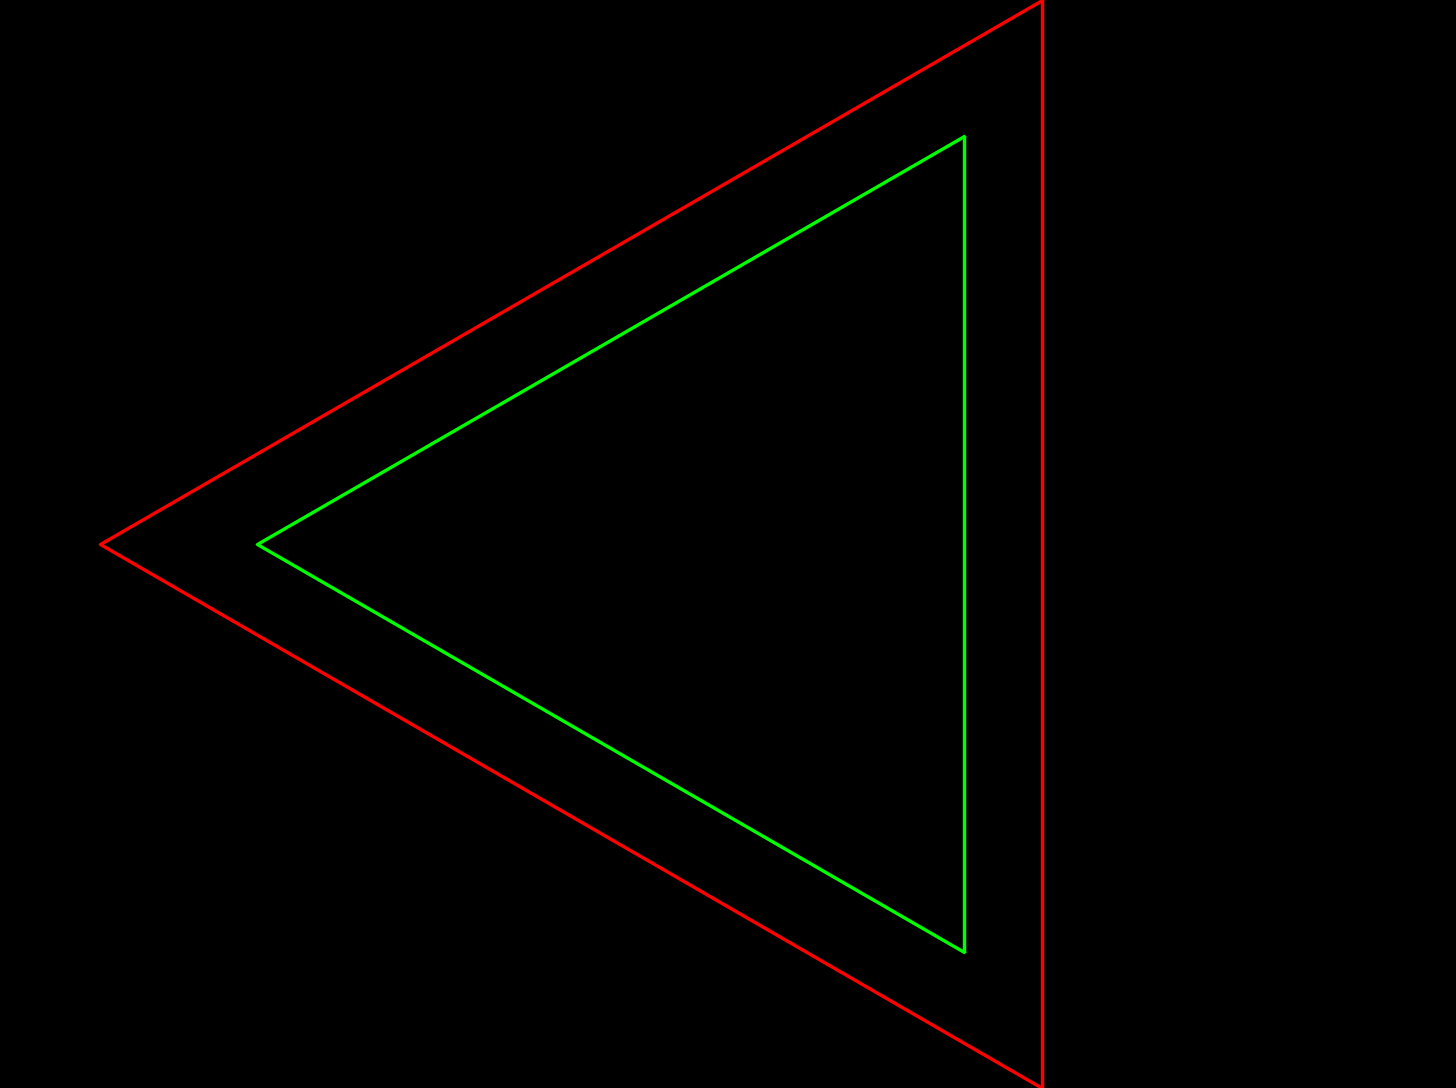
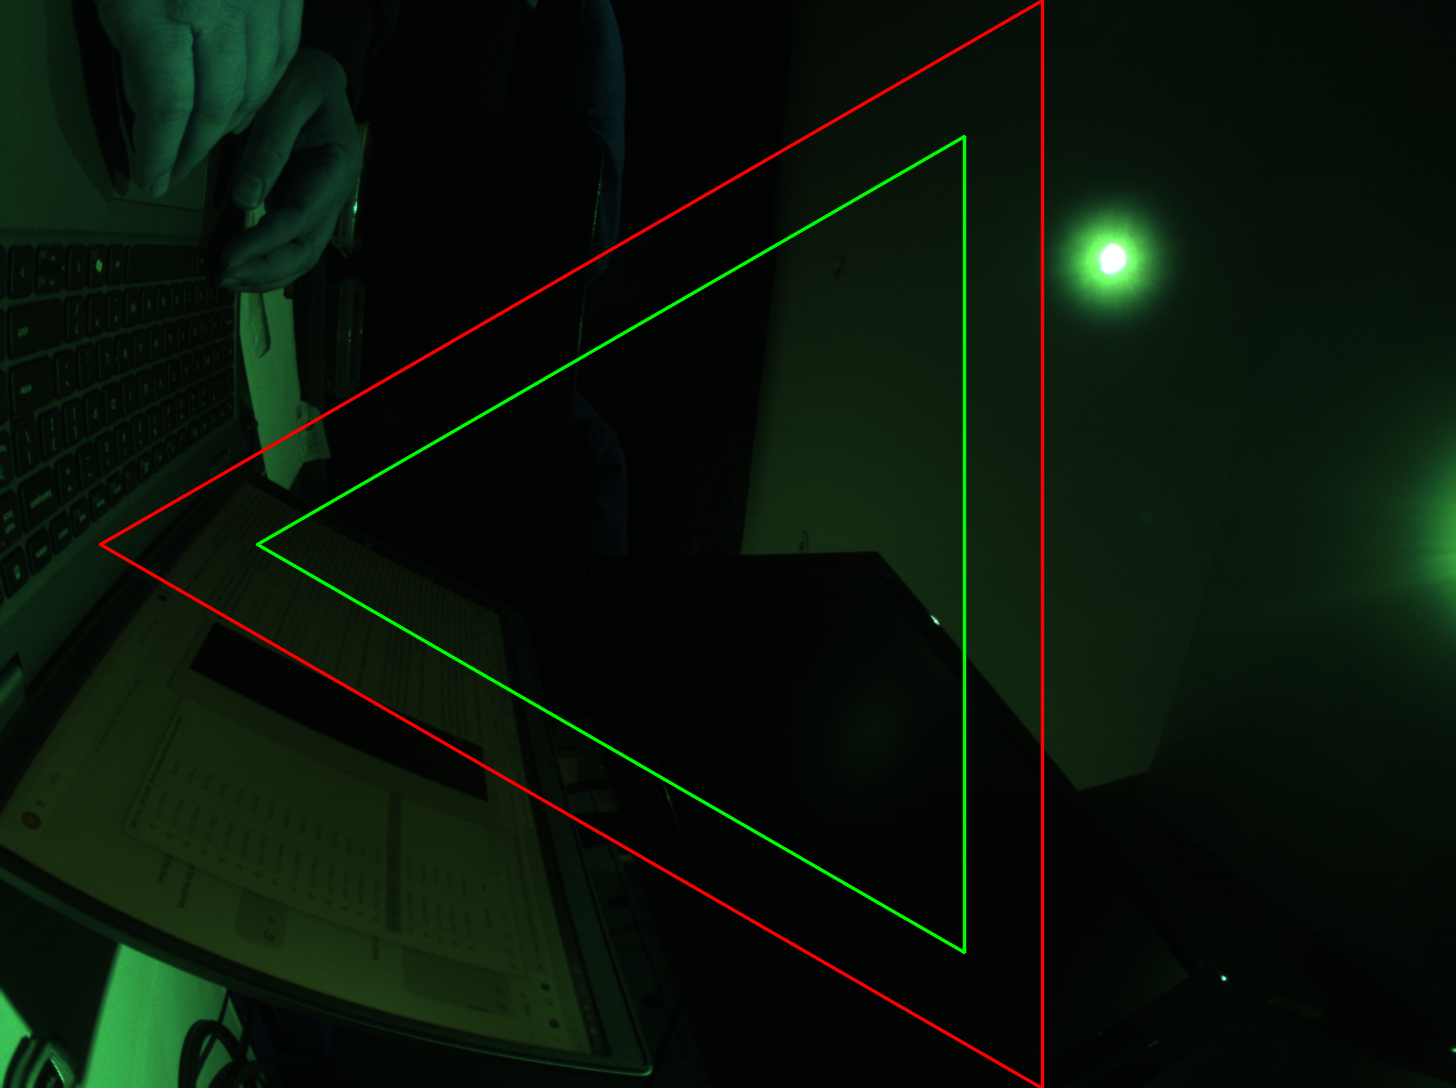
Mapping 4 cameras

diff --git a/software/src/common/topology/shapefunction/include/DASPi-icosahedronspace.h b/software/src/common/topology/shapefunction/include/DASPi-icosahedronspace.h
@@ -110,8 +110,8 @@ struct IcosahedronTables {
     static inline constexpr std::array<MaskOrientationData, facetsN_>
     maskOrientations_{{
         MaskOrientationData{maskRadius, cos0Pi, sin0Pi},//face0
-        MaskOrientationData{maskRadius, +cos0Pi, +sin0Pi},//face1
-        MaskOrientationData{maskRadius, 0.5, -std::numbers::sqrt3/2.0},//face2
+        MaskOrientationData{maskRadius, cos0Pi,sin0Pi},//face1
+        MaskOrientationData{maskRadius, +cos1Pi, -sin1Pi},//face2
         MaskOrientationData{maskRadius, cos0Pi, sin0Pi},//face3
         MaskOrientationData{maskRadius, cos0Pi, sin0Pi},//face4
 
@@ -119,7 +119,7 @@ struct IcosahedronTables {
         MaskOrientationData{maskRadius, cos1Pi, sin1Pi},//face6
         MaskOrientationData{maskRadius, cos1Pi, sin1Pi},//face7
         MaskOrientationData{maskRadius, cos1Pi, sin1Pi},//face8
-        MaskOrientationData{maskRadius, +0.5, -std::numbers::sqrt3/2.0},//face9
+        MaskOrientationData{maskRadius, +cos1Pi, -sin1Pi},//face9
         MaskOrientationData{maskRadius, cos1Pi, sin1Pi},//face10
         MaskOrientationData{maskRadius, cos1Pi, sin1Pi},//face11
         MaskOrientationData{maskRadius, cos1Pi, sin1Pi},//face12
@@ -130,7 +130,7 @@ struct IcosahedronTables {
         MaskOrientationData{maskRadius, cos0Pi, sin0Pi},//face16
         MaskOrientationData{maskRadius, cos0Pi, sin0Pi},//face17
         MaskOrientationData{maskRadius, cos0Pi, sin0Pi},//face18
-        MaskOrientationData{maskRadius, +cos0Pi, +sin0Pi},//face19
+        MaskOrientationData{maskRadius, +cos1Pi, -sin1Pi},//face19
     }};
 
     static inline constexpr std::array<SensorOrientationData, facetsN_>
